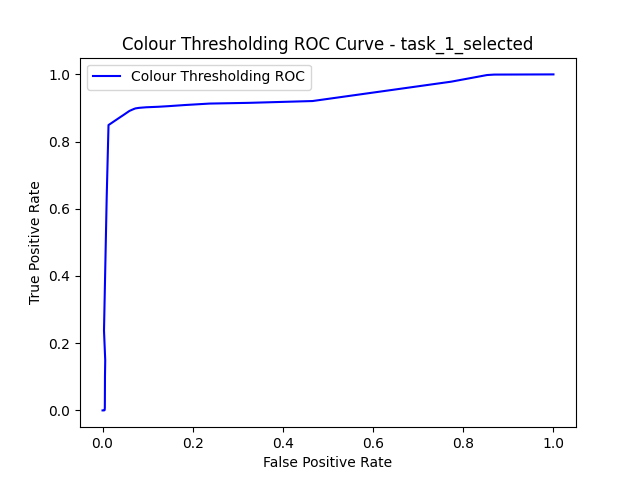
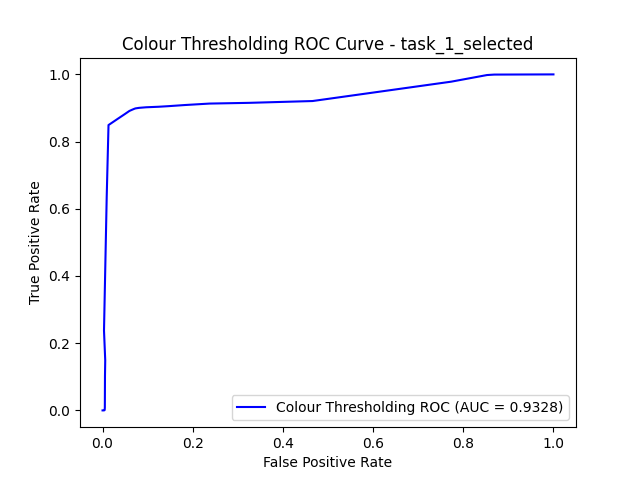
update

diff --git a/final_sub_v2/task_1.py b/final_sub_v2/task_1.py
@@ -263,10 +263,10 @@ def test_colour_thresholding_hough_circle(hsv_image, gray_image, bgr_image, grou
     plt.show()
 
 
-def test_1d_colour_thresholding_hough_circle(hsv_image, gray_image, bgr_image, save_dir=None):
-    lower_bound = np.array([35, 0, 0])
+def test_1d_colour_thresholding_hough_circle(hue, param2, hsv_image, gray_image, bgr_image, save_dir=None):
+    lower_bound = np.array([hue, 0, 0])
     upper_bound = np.array([255, 255, 255])
-    min_radius = 300
+    min_radius = 0
     max_radius = 500
 
     combined_mask = colour_thresholding_hough_circle(
@@ -274,7 +274,7 @@ def test_1d_colour_thresholding_hough_circle(hsv_image, gray_image, bgr_image, s
         gray_image,
         lower_bound=lower_bound,
         upper_bound=upper_bound,
-        param2=20,
+        param2=param2,
         min_radius=min_radius,
         max_radius=max_radius
     )
@@ -292,7 +292,7 @@ def test_1d_colour_thresholding_hough_circle(hsv_image, gray_image, bgr_image, s
     plt.axis('off')
 
     if save_dir is not None:
-        plt.savefig(os.path.join(save_dir, '1d_test_image_mask.png'))
+        plt.savefig(os.path.join(save_dir, '1d_test_image_demo.png'))
     plt.show()
 
 
@@ -371,8 +371,14 @@ def roc_curve(images_dir, save_dir=None, dataset_name=None):
     tp_rate_colour_thresholding = tp_counts_colour_thresholding / (tp_counts_colour_thresholding + fn_counts_colour_thresholding + 1e-6)
     fp_rate_colour_thresholding = fp_counts_colour_thresholding / (fp_counts_colour_thresholding + tn_counts_colour_thresholding + 1e-6)
 
+    # Calculate AUC for Colour Thresholding
+    sorted_indices_colour = np.argsort(fp_rate_colour_thresholding)
+    fpr_sorted_colour = fp_rate_colour_thresholding[sorted_indices_colour]
+    tpr_sorted_colour = tp_rate_colour_thresholding[sorted_indices_colour]
+    auc_colour = np.trapz(tpr_sorted_colour, fpr_sorted_colour)
+
     plt.figure()
-    plt.plot(fp_rate_colour_thresholding, tp_rate_colour_thresholding, label='Colour Thresholding ROC', color='blue')
+    plt.plot(fp_rate_colour_thresholding, tp_rate_colour_thresholding, label=f'Colour Thresholding ROC (AUC = {auc_colour:.4f})', color='blue')
     plt.xlabel('False Positive Rate')
     plt.ylabel('True Positive Rate')
     plt.title(f'Colour Thresholding ROC Curve - {dataset_name}')
@@ -388,10 +394,17 @@ def roc_curve(images_dir, save_dir=None, dataset_name=None):
 
     tp_rate_hough_circle = tp_counts_hough_circle / (tp_counts_hough_circle + fn_counts_hough_circle + 1e-6)
     fp_rate_hough_circle = fp_counts_hough_circle / (fp_counts_hough_circle + tn_counts_hough_circle + 1e-6)
+    
+    # Calculate AUC for Hough Circle
+    sorted_indices_hough = np.argsort(fp_rate_hough_circle)
+    fpr_sorted_hough = fp_rate_hough_circle[sorted_indices_hough]
+    tpr_sorted_hough = tp_rate_hough_circle[sorted_indices_hough]
+    auc_hough = np.trapz(tpr_sorted_hough, fpr_sorted_hough)
+    
     print("Hough Circle TP Rates:\n", tp_rate_hough_circle)
     print("Hough Circle FP Rates:\n", fp_rate_hough_circle)
     plt.figure()
-    plt.plot(fp_rate_hough_circle, tp_rate_hough_circle, label='Hough Circle ROC', color='orange')
+    plt.plot(fp_rate_hough_circle, tp_rate_hough_circle, label=f'Hough Circle ROC (AUC = {auc_hough:.4f})', color='orange')
     plt.xlabel('False Positive Rate')
     plt.ylabel('True Positive Rate')
     plt.title(f'Hough Circle ROC Curve - {dataset_name}')
@@ -404,8 +417,8 @@ def roc_curve(images_dir, save_dir=None, dataset_name=None):
 
     # Combine both ROC curves
     plt.figure()
-    plt.plot(fp_rate_colour_thresholding, tp_rate_colour_thresholding, label='Colour Thresholding ROC', color='blue')
-    plt.plot(fp_rate_hough_circle, tp_rate_hough_circle, label='Hough Circle ROC', color='orange')
+    plt.plot(fp_rate_colour_thresholding, tp_rate_colour_thresholding, label=f'Colour Thresholding ROC (AUC = {auc_colour:.4f})', color='blue')
+    plt.plot(fp_rate_hough_circle, tp_rate_hough_circle, label=f'Hough Circle ROC (AUC = {auc_hough:.4f})', color='orange')
     plt.xlabel('False Positive Rate')
     plt.ylabel('True Positive Rate')
     plt.title(f'ROC Curve Comparison - {dataset_name}')
@@ -418,7 +431,7 @@ def roc_curve(images_dir, save_dir=None, dataset_name=None):
 
 
 def YoudensJ_evaluation(image_dir, save_dir=None):
-    colour_thresholding_hue_thresholds = range(0, 50, 5)
+    colour_thresholding_hue_thresholds = range(0, 155, 5)
     # upper_bound = np.array([255, 255, 255])
     hough_circle_param2_thresholds = range(50, 0, -5)
     # lower_bound = np.array([55, 15, 40])
@@ -459,7 +472,7 @@ def YoudensJ_evaluation(image_dir, save_dir=None):
                     lower_bound,
                     upper_bound,
                     param2=param2,
-                    min_radius=300,
+                    min_radius=0,
                     max_radius=500
                 )
                 tp = np.sum((combined_mask == 255) & (ground_mask == 255))
@@ -647,13 +660,13 @@ def main():
     # test_colour_thresholding_hough_circle(hsv_image, gray_image, bgr_image, ground_mask, save_dir=save_dir)
 
 
-    # test_img_path = "./Dataset_25/calibration_image_02_cam2_t1d.jpg"
+    test_img_path = "./Dataset_25/calibration_image_02_cam2_t1d.jpg"
     # test_img_path = "./Dataset_25/test_image_2.jpg"
 
-    # bgr_test_image = cv2.imread(test_img_path)
-    # blurred_test_image = cv2.GaussianBlur(bgr_test_image, (5, 5), 0)
-    # hsv_test_image = cv2.cvtColor(blurred_test_image, cv2.COLOR_BGR2HSV)
-    # gray_test_image = cv2.cvtColor(blurred_test_image, cv2.COLOR_BGR2GRAY)
+    bgr_test_image = cv2.imread(test_img_path)
+    blurred_test_image = cv2.GaussianBlur(bgr_test_image, (5, 5), 0)
+    hsv_test_image = cv2.cvtColor(blurred_test_image, cv2.COLOR_BGR2HSV)
+    gray_test_image = cv2.cvtColor(blurred_test_image, cv2.COLOR_BGR2GRAY)
 
     # save_dir = './results/task_1/test_image_2/'
     # if not os.path.exists(save_dir):
@@ -667,14 +680,13 @@ def main():
     if not os.path.exists(save_dir):
         os.makedirs(save_dir)
 
-    roc_curve(image_dir, save_dir=save_dir, dataset_name='task_1_selected')
+    # roc_curve(image_dir, save_dir=save_dir, dataset_name='task_1_selected')
 
-    # best_jouden_index, best_hue, best_param2 = YoudensJ_evaluation(image_dir="./Dataset_25/Easy/", save_dir=save_dir)
+    # best_jouden_index, best_hue, best_param2 = YoudensJ_evaluation(image_dir="./Dataset_25/task_1_selected/", save_dir=save_dir)
 
     
 
-    # test_1d_colour_thresholding_hough_circle(hsv_test_image, gray_test_image, bgr_test_image, save_dir=save_dir)
-
+    test_1d_colour_thresholding_hough_circle(hue=95, param2=25, hsv_image=hsv_test_image, gray_image=gray_test_image, bgr_image=bgr_test_image, save_dir=save_dir)
     # auc_evaluation(image_dir, save_dir=save_dir)
 
 
